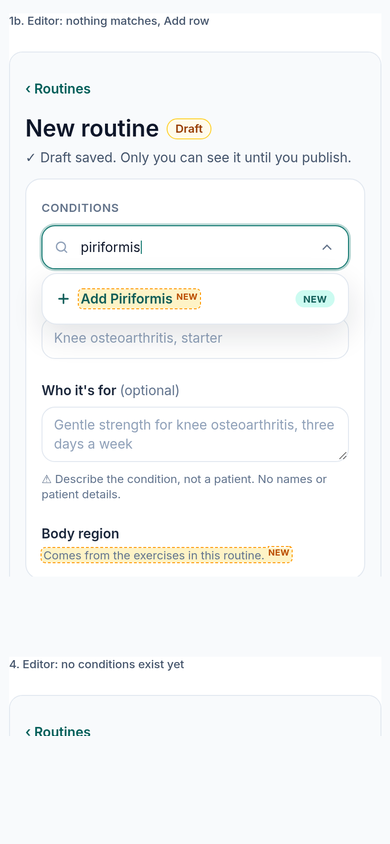
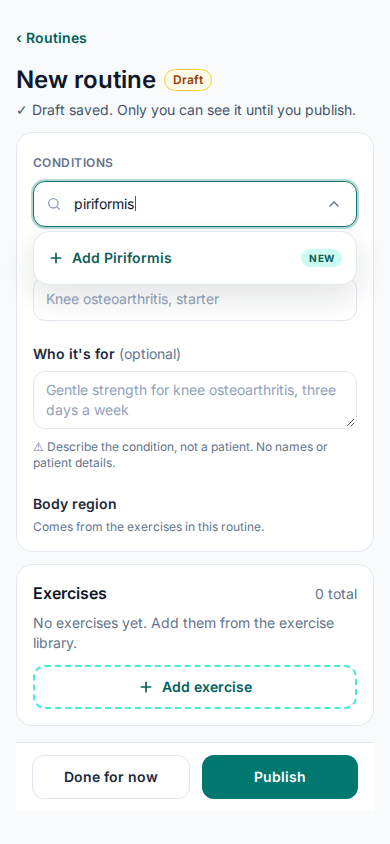
DIDI-1216: QA R1 mockup recapture and spec fixes
Recapture routine-conditions mockups 01-10 as single-state 390/1280 frames.
Point open items at DIDI-1218, DIDI-1262, and DIDI-1272; cite d0366ea0,
J update 1 verbatim, and Designer-relayed a887af34 wording.

diff --git a/design/app/routine-conditions/spec.md b/design/app/routine-conditions/spec.md
@@ -24,9 +24,11 @@ Project `471087931147292672`. Mobile first (390 px column). Desktop: same field 
 
 ## Locked Product direction (verbatim)
 
-**DIDI-594**, Diadem, Nov 10, 2026, 8:30 PM EST (entry J, Designer chat relayed by CTO on `41b3b0d0`):
+**DIDI-594**, Diadem, Nov 10, 2026, 8:41 PM EST (entry J update 1, `41b3b0d0`, verbatim):
 
-> Every routine needs a condition; practitioners can have one routine serve multiple conditions; body parts come from exercises within the routine; practitioners can add conditions.
+> yes, we can have one routine that serves multiple conditions ie, sciatica, a weak core, lower back pain, etc. all can be treated with similar exercises
+
+> body parts come from the exercises within the routine
 
 **DIDI-594**, Diadem, Nov 10, 2026, 9:01 PM EST (J update 2, `28eea987`, verbatim answers on DIDI-1221):
 
@@ -47,7 +49,7 @@ Project `471087931147292672`. Mobile first (390 px column). Desktop: same field 
 
 ## Standing rule and Designer picks (not Diadem's words)
 
-**DIDI-594** comment `a887af34`, Diadem, Nov 21, 2026, 12:58 AM EST (Designer chat, relayed verbatim by CTO):
+**DIDI-594** comment `a887af34`, Diadem, Nov 21, 2026, 12:58 AM EST (CTO lock of Diadem's words, relayed by Designer):
 
 > going forward please pick something reasonable. only ask me if it's a true product decision that you are unsure about
 
@@ -56,7 +58,7 @@ Project `471087931147292672`. Mobile first (390 px column). Desktop: same field 
 | Q16 | Selected condition chips keep visible **Clear**; accessible name **Clear {condition}** (W7; same pattern as body region picker **Clear {region}**, per [DIDI-1254](https://linear.app/didi-build/issue/DIDI-1254) CTO comment `34ddfb6e` and lock `32f06097`) |
 | Q17 | **Rename** and **Delete** use confirm only; no Undo after confirm |
 | Q18 | Renaming to a name that already exists is **blocked**, not merged |
-| Q19 | Library search hints mention conditions (see [routines spec](../routines/spec.md) search is/was) |
+| Q19 | Library search hints mention conditions; placeholder **Try: sciatica, knee, low back** ([DIDI-1216](https://linear.app/didi-build/issue/DIDI-1216) `d0366ea0`; see [routines spec](../routines/spec.md) search is/was) |
 
 **Designer picks** recorded on [DIDI-1216](https://linear.app/didi-build/issue/DIDI-1216) comment `b5ce6ede` (under Diadem's `a887af34` standing rule; not Diadem's words):
 
@@ -143,7 +145,7 @@ When publish is attempted without at least one condition:
 
 ## States (mockups)
 
-Phone 390 px (height varies by state; padded to 844 px in PNGs for 01 to 05). Desktop 1280 by 900 px. States 01 to 05 cropped from MagicPath board revision `474549354716364800`. States 06 to 08 captured from the same revision's `CfBoard` component (variant A) at 390 px and 1280 px; amber **new** markers in source are design-board only and are not in shipped UI.
+Phone 390 px (height varies by state; padded to 844 px in PNGs). Desktop 1280 by 900 px. Single-state frames from MagicPath revision `474549354716364800`, variant A `CfBoard` (Playwright `#root` capture). No board titles, next-state fragments, or amber **New** markers.
 
 | # | State | What it shows |
 | -- | -- | -- |
@@ -151,21 +153,25 @@ Phone 390 px (height varies by state; padded to 844 px in PNGs for 01 to 05). De
 | 02 | add row | Typeahead `piriformis`; **Add Piriformis** with **New** pill |
 | 03 | chips multi | Three selected chips; empty typeahead; helper C4; derived **Hip** and **Lower back** |
 | 04 | empty catalog | Focused typeahead; list message C5 |
-| 05 | publish validation | Red summary C6; inline C8; exercise bullet unchanged |
-| 06 | overflow menu | Routine page badge overflow open (**Rename**, **Delete**); same menu pattern on typeahead catalog rows |
-| 07 | rename sheet | **Rename condition**, **Condition name**, helper C16, primary **Save** |
-| 08 | delete confirm | C17, C10, C11 |
+| 05 | publish validation | **Before you publish** summary with C6; inline C8; existing name and exercise bullets |
+| 06 | name exists | Typeahead matches an existing condition; no **Add** row (pick the match) |
+| 07 | overflow menu | Routine page badge overflow open (**Rename**, **Delete**); same menu pattern on typeahead catalog rows |
+| 08 | rename sheet | **Rename condition**, **Condition name**, helper C16, primary **Save** |
+| 09 | rename blocked | C19 duplicate name error; **Save** disabled (**Designer pick** `b5ce6ede`) |
+| 10 | delete confirm | C17, C10, C11 |
 
 | State | Phone | Desktop |
 | -- | -- | -- |
 | 01 matches | [phone](mockups/01-matches-phone.png) | [desktop](mockups/01-matches-desktop.png) |
 | 02 add row | [phone](mockups/02-add-row-phone.png) | [desktop](mockups/02-add-row-desktop.png) |
 | 03 chips multi | [phone](mockups/03-chips-multi-phone.png) | [desktop](mockups/03-chips-multi-desktop.png) |
-| 04 empty | [phone](mockups/04-empty-phone.png) | [desktop](mockups/04-empty-desktop.png) |
-| 05 validation | [phone](mockups/05-validation-phone.png) | [desktop](mockups/05-validation-desktop.png) |
-| 06 overflow menu | [phone](mockups/06-overflow-menu-phone.png) | [desktop](mockups/06-overflow-menu-desktop.png) |
-| 07 rename | [phone](mockups/07-rename-phone.png) | [desktop](mockups/07-rename-desktop.png) |
-| 08 delete confirm | [phone](mockups/08-delete-confirm-phone.png) | [desktop](mockups/08-delete-confirm-desktop.png) |
+| 04 empty catalog | [phone](mockups/04-empty-phone.png) | [desktop](mockups/04-empty-desktop.png) |
+| 05 publish validation | [phone](mockups/05-validation-phone.png) | [desktop](mockups/05-validation-desktop.png) |
+| 06 name exists | [phone](mockups/06-name-exists-phone.png) | [desktop](mockups/06-name-exists-desktop.png) |
+| 07 overflow menu | [phone](mockups/07-overflow-menu-phone.png) | [desktop](mockups/07-overflow-menu-desktop.png) |
+| 08 rename sheet | [phone](mockups/08-rename-phone.png) | [desktop](mockups/08-rename-desktop.png) |
+| 09 rename blocked | [phone](mockups/09-rename-blocked-phone.png) | [desktop](mockups/09-rename-blocked-desktop.png) |
+| 10 delete confirm | [phone](mockups/10-delete-confirm-phone.png) | [desktop](mockups/10-delete-confirm-desktop.png) |
 
 ## Keyboard and accessibility
 
@@ -192,7 +198,7 @@ Same as [body-region-picker/spec.md](../body-region-picker/spec.md) Keyboard and
 | C7 | Comes from the exercises in this routine. | Body region helper | Visible; region chips `aria-readonly` |
 | C8 | Add a condition to publish. | Inline validation | Associated with **Conditions** via `aria-describedby` when shown |
 | C9 | +{n} | Card overflow count | Visible; `n` hidden condition count |
-| C10 | {n} routines use it. It comes off all of them, for every practitioner. | Delete confirm body | `{n}` routine count from server |
+| C10 | {n} routines use it. It comes off all of them, for every practitioner. | Delete confirm body | `{n}` count source **Open** ([DIDI-1272](https://linear.app/didi-build/issue/DIDI-1272)) |
 | C11 | Delete condition | Delete confirm primary | Destructive button |
 | C12 | Rename | Menu item | Visible |
 | C13 | Delete | Menu item | Visible |
@@ -205,6 +211,7 @@ Same as [body-region-picker/spec.md](../body-region-picker/spec.md) Keyboard and
 | W7 | Clear {condition} | Chip remove | Visible **Clear** (`CLEAR`); `aria-label` only (**Designer pick** `a887af34` Q16; pattern [DIDI-1254](https://linear.app/didi-build/issue/DIDI-1254) `34ddfb6e`) |
 | (reuse) | Clear | Chip remove visible | `src/ui/copy/exercise-library.ts` `CLEAR` |
 | (reuse) | Save | Rename sheet primary | `src/ui/copy/exercise-requests.ts` `SAVE` (**Designer pick** DIDI-1216 `b5ce6ede` Q21) |
+| (reuse) | Cancel | Rename and delete sheet secondary | Existing approved **Cancel** ([DIDI-1216](https://linear.app/didi-build/issue/DIDI-1216) `d0366ea0`) |
 | (reuse) | New | Add row / user-new chip | `TAG_NEW` |
 | (reuse) | Before you publish | Validation summary title | `BEFORE_YOU_PUBLISH` |
 | (reuse) | Your draft is still saved. | Validation footer | routines copy inventory |
@@ -217,9 +224,9 @@ Diadem's reply to items 4 to 15, verbatim: **approve** (strings exactly as liste
 
 | Topic | Why open |
 | -- | -- |
-| Deleting a routine's only condition | **Open: needs Diadem.** [DIDI-1262](https://linear.app/didi-build/issue/DIDI-1262); out of scope here |
-| Normalised duplicate handling on **create** vs **rename** | **Open: needs Diadem.** J update 2 (`28eea987`) mentions merge on create; `a887af34` Q18 covers rename only |
-| Exact routine count source and stale counts in delete copy (`{n}` in C10) | **Open: needs Diadem.** Who sees what / counts |
+| Deleting a routine's only condition | **Open:** [DIDI-1262](https://linear.app/didi-build/issue/DIDI-1262). Direction locked on [DIDI-594](https://linear.app/didi-build/issue/DIDI-594) `0cc3e785` (flag; cancel or replace the condition). Strings and UI on DIDI-1262; out of scope here |
+| Normalised duplicate handling on **create** vs **rename** | **Open:** merged on create per [DIDI-1218](https://linear.app/didi-build/issue/DIDI-1218) and J update 2 (`28eea987`). Rename blocked, not merged (`a887af34` Q18) |
+| Delete confirm routine count (`{n}` in C10) | **Open:** [DIDI-1272](https://linear.app/didi-build/issue/DIDI-1272) (ready for maintainer). Do not invent |
 
 ## Is/was (this feature)
 
@@ -249,6 +256,7 @@ Diadem's reply to items 4 to 15, verbatim: **approve** (strings exactly as liste
 
 ## Changes
 
+- **Nov 21, 2026**: DIDI-1216 QA R1 (physio-poc#145). Mockups 01 to 10 recaptured as single-state 390 and 1280 frames; open rows point at DIDI-1218, DIDI-1262, DIDI-1272; J update 1 verbatim; `d0366ea0` for **Cancel** reuse; `a887af34` relay wording.
 - **Nov 21, 2026**: DIDI-1216 QA. Citation split: `a887af34` Q16 to Q19 vs elaborations on `b5ce6ede` (C19, Q20, Q21).
 - **Nov 21, 2026**: DIDI-1216 follow-up. Designer picks; DIDI-1254 `34ddfb6e` for W7; mockups 06 to 08 from CfBoard captures.
 - **Nov 21, 2026**: DIDI-1216. Option A spec, approved strings (`6d77e60d`), Designer picks (`a887af34`), mockups 01 to 05 from MagicPath `474549354716364800`. Blocks DIDI-1219; unblocks DIDI-1226 path with DIDI-1219. https://linear.app/didi-build/issue/DIDI-1216

diff --git a/design/app/routines/spec.md b/design/app/routines/spec.md
@@ -14,7 +14,7 @@ Ready-made programs ("cookie cutter programs") for common conditions, in a commu
 | -- | -- | -- |
 | Conditions on a routine | Optional; one; fixed catalog | Required at publish; many; practitioners add (J update 1) |
 | Condition filter | Hidden when catalog empty; fixed sample list | Shown when any condition exists; live catalog |
-| Search placeholder | **Try: knee, low back, bridge** when conditions empty; **Try: arthritis, knee, low back** when sample list shown | When catalog non-empty: **Try: sciatica, knee, low back** (**Designer pick** DIDI-594 `a887af34` Q19; placeholder text is a **Designer elaboration** on [DIDI-1216](https://linear.app/didi-build/issue/DIDI-1216) `b5ce6ede`, not lock wording). **My routines:** unchanged **Search my routines** |
+| Search placeholder | **Try: knee, low back, bridge** when conditions empty; **Try: arthritis, knee, low back** when sample list shown | **Try: sciatica, knee, low back** on **All routines** when the catalog has any condition, and the same placeholder when the catalog is empty ([DIDI-1216](https://linear.app/didi-build/issue/DIDI-1216) `d0366ea0`, under `a887af34` Q19). **My routines:** unchanged **Search my routines** |
 | Body region on cards and routine page | Routine's own `body_region` field | Union of exercise body regions; no chip when none (J update 2) |
 | Body region filter | Routine's region | Matches via exercises in the routine (J update 1) |
 | Card condition line | One condition name | Up to two condition chips, then **+{n}** for overflow (`6d77e60d`) |
@@ -36,7 +36,7 @@ Diadem approved this revision on Oct 25, 2026, 7:22 PM ET ("v12 is approved"), i
 | -- | -- |
 | All routines | Community routines (published only). Card: 4 exercise thumbnails, name, condition chips (when present; up to two plus **+{n}**), body region chips from exercises (when present), "N exercises · Version N", "Used N times", "Added by you", save button (bookmark, or check when saved) |
 | My routines | Drafts first under "Drafts, only you can see them", then saved routines. Card shows "Your copy, vN", "Edited", "Used {date}" or "Saved {date}", and an amber "Community updated to vN" flag when the community version is newer. An amber banner counts flagged routines |
-| Search | Its own search bar. When the condition catalog has values: **Try: sciatica, knee, low back**. My routines: **Search my routines**. Searches name, body region, exercise names, and condition names |
+| Search | Its own search bar. **All routines:** **Try: sciatica, knee, low back** ([DIDI-1216](https://linear.app/didi-build/issue/DIDI-1216) `d0366ea0`), including when the catalog is empty. My routines: **Search my routines**. Searches name, body region, exercise names, and condition names |
 | Filters & sort | Collapsible. Condition (when the catalog has values), Body region (via exercises), Sort (Most used, Newest, A to Z), Reset, Done |
 | Conditions empty | No condition filter on library; practitioners can still add conditions on New routine (see [routine-conditions](../routine-conditions/spec.md)). Cards omit condition chips until some exist |
 | Routine page | Badges (condition chips when present, body region from exercises when present, "In My routines", "Community updated"), "Community routine · Version N · Updated {date} by ... · Used N times", who it's for, exercises with type chip and doses, "You sent this routine N times" with codes and "See them in Programs". Actions: Use for a patient (primary), Create program from routine, Save to My routines or Edit my copy, Edit for everyone, Version history, Remove from My routines |
@@ -60,7 +60,7 @@ Diadem approved this revision on Oct 25, 2026, 7:22 PM ET ("v12 is approved"), i
 - Tabs "My routines" / "All routines". My routines description: "Routines you saved or started. A saved routine stays as it was when you saved it. When the community version changes, it is flagged so you can update."
 - All routines description: "{N} ready-made programs for common conditions, shared by every practitioner. Anyone can add or improve one, and every change is kept in version history."
 - Flag banner: "1 saved routine has a newer community version. Open it to see what changed and update in one tap."
-- Sample conditions note: "Sample conditions for this concept. The real fixed list is still to come."
+- ~~Sample conditions note: "Sample conditions for this concept. The real fixed list is still to come."~~ (**Superseded** by DIDI-1216 practitioner-added conditions.)
 - Routine page note: "Using a routine for a patient makes a separate program with its own name and code. Later edits to this routine never change programs already sent."
 - Publish sheet points: "It goes live as version 1 in All routines, for every practitioner." "Anyone can use it, improve it and restore older versions. Every change is kept in version history." "There is no review step. Routines reuse approved exercises, so nothing new needs checking."
 - Toasts: "Saved {name} to My routines" (Undo), "Published. Version 1 of {name} is live for every practitioner.", "Saved as version {v} for everyone. Programs already sent did not change.", "Saved to your copy. Only you see it. The community routine did not change.", "Discarded the draft {name}" (Undo).
@@ -84,7 +84,7 @@ The full verbatim copy is in the inventory at the end.
 
 Approved with v12 (Diadem, Oct 25, 2026, 7:22 PM ET, "v12 is approved", including these design details):
 
-1. The concept opens with the **empty** condition list, since v1 may start with zero conditions. The filled state is labelled "Sample list".
+1. ~~The concept opens with the **empty** condition list, since v1 may start with zero conditions. The filled state is labelled "Sample list".~~ (**Superseded:** v1 may start with zero seeded conditions; practitioners add via [routine-conditions](../routine-conditions/spec.md).)
 2. "Use version N" replaces the whole saved copy, including the practitioner's own edits (warned in the banner, Undo in the toast). Exercises do this per field; a routine is one list, so it is one action.
 3. "Edit for everyone" has no draft step: it saves straight to a new version, like exercise Edit for everyone. Only brand-new routines are drafts.
 4. A draft routine can't be used for a patient until it is published. A draft can be discarded (with Undo). A new routine left untouched is dropped on Cancel.
@@ -94,7 +94,7 @@ Approved with v12 (Diadem, Oct 25, 2026, 7:22 PM ET, "v12 is approved", includin
 
 ## Mockups
 
-Changed in v12 (the approved v12 previews): 02, 04, 04b, 07 to 17, 20 to 22. Unchanged since v11 (rendered from the approved revision): 01, 03, 05, 06, 18, 19. "Use for a patient" and the program-side states are in the programs spec.
+Changed in v12 (the approved v12 previews): 02, 04, 04b, 07 to 17, 20 to 22. Unchanged since v11 (rendered from the approved revision): 01, 03, 05, 06, 18, 19. "Use for a patient" and the program-side states are in the programs spec. Mockup **04b** (Sample list) is **superseded** by DIDI-1216; PNGs kept for v12 history only.
 
 | State | Phone (390 px) | Desktop (1280 px) |
 | -- | -- | -- |
@@ -490,10 +490,10 @@ Every user-facing string in the parts of the approved source that render this fe
 
 ## Changes
 
+- **Nov 21, 2026**: DIDI-1216 condition-first library and publish validation is/was; search hint `d0366ea0`; card **+{n}**; body region from exercises; Sample list wording superseded. Authoring: [routine-conditions/spec.md](../routine-conditions/spec.md). https://linear.app/didi-build/issue/DIDI-1216
 - **Nov 19, 2026**: DIDI-1224. Similar routine warning on New routine (variant B inline card); linked spec and mockups. https://linear.app/didi-build/issue/DIDI-1224
 - **Nov 11, 2026**: DIDI-1192. Diadem (7:13 PM EST, CTO chat), DIDI-594 G update 6: "Match the program sheet, with 'routine' wording". "Publish this routine?" uses routine body and removal read-out strings approved Nov 11, 2026. https://linear.app/didi-build/issue/DIDI-1192, https://linear.app/didi-build/issue/DIDI-594
 - **Nov 10, 2026**: DIDI-1192. "Publish this routine?" blocks publish while any exercise lacks its start or end image; Remove is the only action (CTO rulings, DIDI-1193; copy approved by Diadem Nov 9, 2026, 11:31 AM ET). https://linear.app/didi-build/issue/DIDI-1192
 - **Oct 25, 2026**: v11: Routines added (community and My routines, search, filters, routine page, use for a patient, create program from routine, edit for everyone, my copy, version history). https://linear.app/didi-build/issue/DIDI-852, https://linear.app/didi-build/issue/DIDI-809
-- **Nov 21, 2026**: DIDI-1216 condition-first library and publish validation is/was; search hint; card **+{n}**; body region from exercises. Authoring: [routine-conditions/spec.md](../routine-conditions/spec.md). https://linear.app/didi-build/issue/DIDI-1216
 - **Oct 25, 2026**: v12: saved copies frozen with update flag and adopt; drafts with auto-save and publish confirm, no review; restore an older version; remove from My routines with Undo; Use for a patient lands on the Publish sheet; condition list empty or sample. https://linear.app/didi-build/issue/DIDI-852, https://linear.app/didi-build/issue/DIDI-809
 - **Oct 25, 2026**: v12 approved by Diadem (7:22 PM ET), including the 7 design details above. Dev: https://linear.app/didi-build/issue/DIDI-853. https://linear.app/didi-build/issue/DIDI-852

diff --git a/design/README.md b/design/README.md
@@ -17,7 +17,7 @@ Approved design for the Physio POC web app and AI assistant connector. Diadem ap
 | Body region picker (exercise form chips plus typeahead, multi-region, r8 AI pending) | [app/body-region-picker](app/body-region-picker/spec.md) | 14 | https://linear.app/didi-build/issue/DIDI-1253 · [DIDI-1256](https://linear.app/didi-build/issue/DIDI-1256) |
 | Exercise requests (similar check, request form, conflicts, drafts and review) | [app/exercise-requests](app/exercise-requests/spec.md) | 18 | https://linear.app/didi-build/issue/DIDI-810 |
 | Routines (community and My routines, update flag, drafts, publish, versions, remove) | [app/routines](app/routines/spec.md) | 46 | https://linear.app/didi-build/issue/DIDI-853 |
-| Routine conditions (New routine multi-select, rename/delete, derived body region) | [app/routine-conditions](app/routine-conditions/spec.md) | 16 | https://linear.app/didi-build/issue/DIDI-1219 · [DIDI-1216](https://linear.app/didi-build/issue/DIDI-1216) |
+| Routine conditions (New routine multi-select, rename/delete, derived body region) | [app/routine-conditions](app/routine-conditions/spec.md) | 20 | https://linear.app/didi-build/issue/DIDI-1219 · [DIDI-1216](https://linear.app/didi-build/issue/DIDI-1216) |
 | Similar routine warning (New routine, variant B inline card) | [app/similar-routine-warning](app/similar-routine-warning/spec.md) | 12 | https://linear.app/didi-build/issue/DIDI-1226 |
 | Programs (list and search, builder, codes and names, publish sheet, share link, link page, delete and restore) | [app/programs](app/programs/spec.md) | 67 | https://linear.app/didi-build/issue/DIDI-810 |
 | Share link expiry (My defaults, per-program expiry) | [app/settings-link-expiry](app/settings-link-expiry/spec.md) | 8 | https://linear.app/didi-build/issue/DIDI-810 |

diff --git a/design/app/similar-routine-warning/spec.md b/design/app/similar-routine-warning/spec.md
@@ -289,6 +289,7 @@ The preview sheet title row above remains **Open: needs Diadem approval** (runti
 
 ## Changes
 
+- **Nov 21, 2026**: DIDI-1216. Authoring chip remove: W7 **Clear {condition}** (`a887af34` Q16) supersedes exploration **Remove {condition}** (`f4682350`). https://linear.app/didi-build/issue/DIDI-1216
 - **Nov 19, 2026**: DIDI-1224 a11y follow-up. W9 to W11 (8:30 PM ET; `e880fcc5`), layout tokens aligned to revision `471088919975432193`, open a11y items closed. https://linear.app/didi-build/issue/DIDI-1224
 - **Nov 19, 2026**: DIDI-1224 follow-up. QA nits: state 04 continue mockup, spec wording, layout class inventory, lock citations (`3fd723a4`, `03489a7e` on AI cap). https://linear.app/didi-build/issue/DIDI-1224
 - **Nov 19, 2026**: DIDI-1224. Diadem approved W8 `Conditions` at 4:27 PM ET (`3fd723a4`; replaces `CONDITION` on New routine form). https://linear.app/didi-build/issue/DIDI-1224
